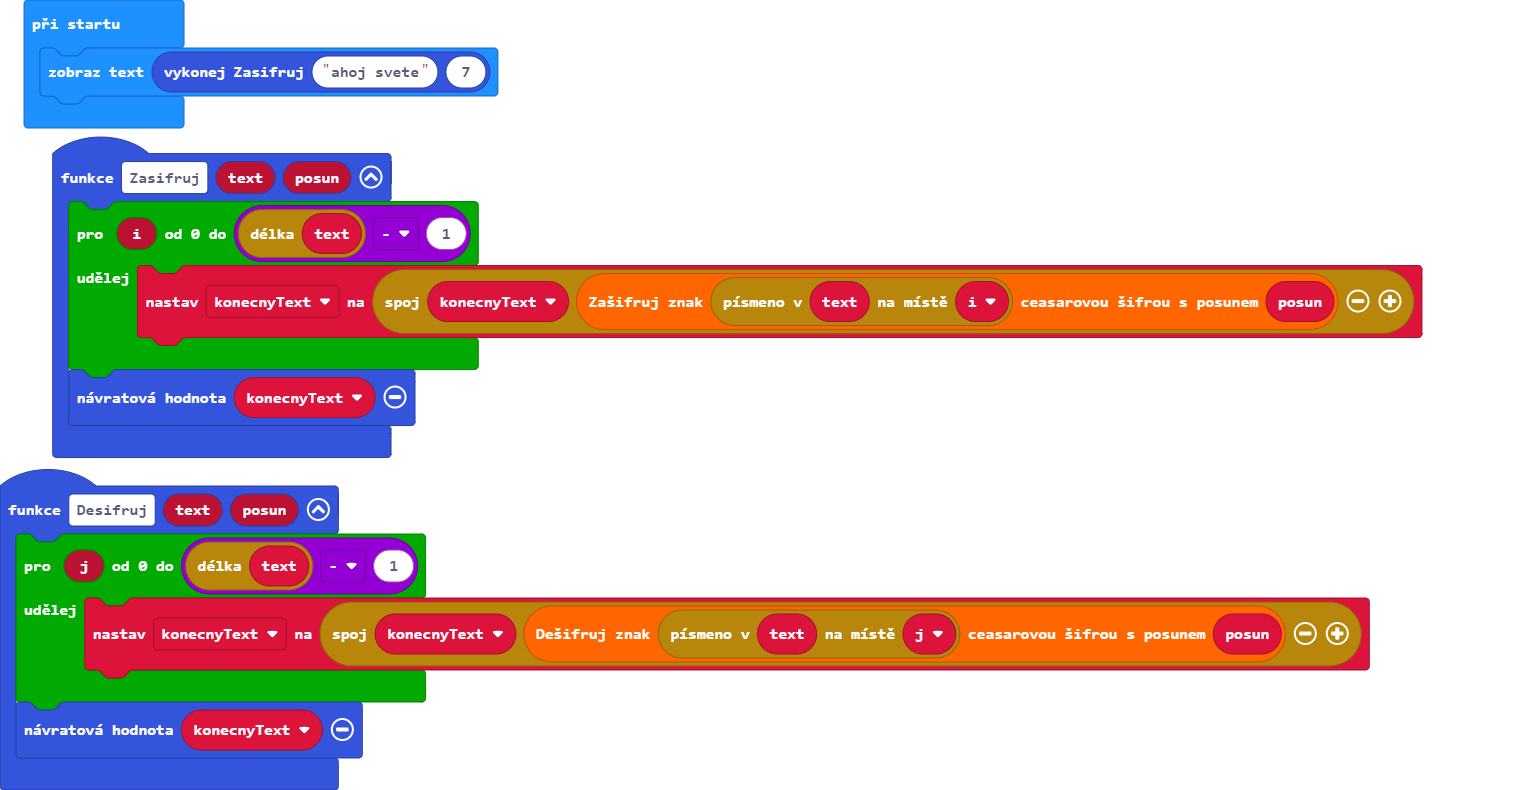
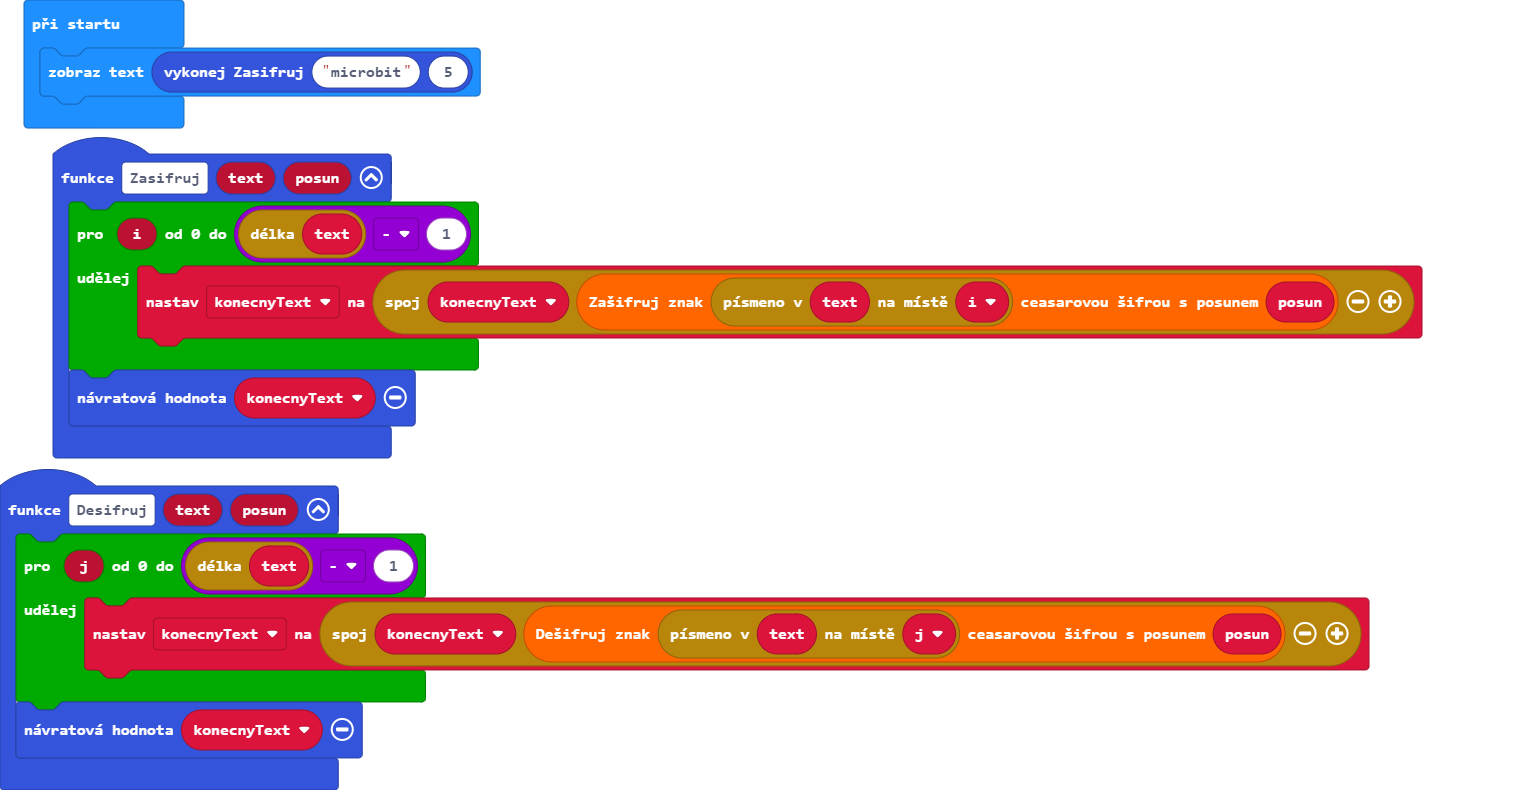
scheme wont work

diff --git a/main.ts b/main.ts
@@ -11,4 +11,4 @@ function Desifruj (text: string, posun: number) {
     return konecnyText
 }
 let konecnyText = ""
-basic.showString("" + (Zasifruj("ahoj svete", 7)))
+basic.showString("" + (Zasifruj("microbit", 5)))
